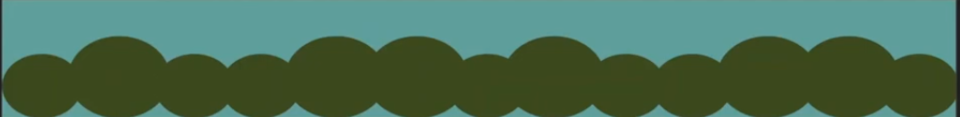
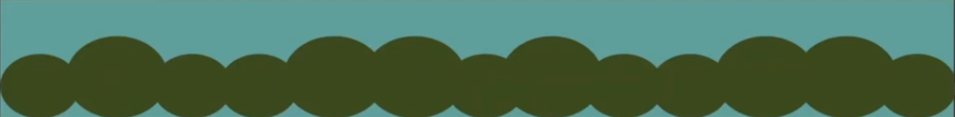
at

diff --git a/src/sass/_partials/_header-animado.sass b/src/sass/_partials/_header-animado.sass
@@ -1,5 +1,17 @@
 @use "../_variables" as var
 @use "sass:color"
+
+@mixin anima($imagem, $tempo, $direcao : 'reverse')
+    background-image: url(/imagens/cenario_#{$imagem}.png)
+    animation: anima_cenario #{$tempo} linear infinite #{$direcao}
+    background-size: auto 100%
+    background-repeat: no-repeat
+
+@keyframes anima_cenario 
+    from
+        transform: translateX(-31%) translateY(0) 
+    to 
+        transform: translateX(0%)  translateY(0)
     
 .header-animado 
     $h: 300px
@@ -50,46 +62,23 @@
                 top: 0
                 left: 0
                 right: 0
-            
 
-            @keyframes anima_cenario 
-                from
-                    transform: translateX(-31%) translateY(0) 
-                to 
-                    transform: translateX(0%)  translateY(0)
-                    
-                    
-            .nuvens 
-                background-image: url(/imagens/cenario_nuvens.png)
-                animation: anima_cenario 30s linear infinite reverse
-                background-size: auto 100%
-                background-repeat: no-repeat
+            $anima_elements: ('nuvens'90s,'casas' 30s, 'rua' 30s, 'carrosCima'15s, 'carrosBaixo'15s )
 
-            .casas
-                background-image: url('/imagens/cenario_Casas.png')
-                animation: anima_cenario 30s linear infinite reverse
-                background-size: auto 100%
-                background-repeat: no-repeat
-            
-            .rua
-                background-image: url('/imagens/cenario_rua.png')
-                animation: anima_cenario 30s linear infinite reverse
-                background-size: auto 100%
-                background-repeat: no-repeat
+            $anima_elementss: 'nuvens' 90s,'casas' 30s , 'rua' 30s , 'carrosCima' 15s , 'carrosBaixo' 15s 'normal'
+
+            @each $el, $tempo, $dir in $anima_elementss
+                @if not $dir
+                    $dir: 'reverse'
+                .#{$el} 
+                    @include anima(#{$el}, $tempo, $dir)
 
             .carrosCima
-                background-image: url('/imagens/cenario_carrosCima.png')
-                animation: anima_cenario 10s linear infinite reverse
-                background-size: auto 100%
-                background-repeat: no-repeat
                 position: absolute
                 top: -10px
 
             .carrosBaixo
-                background-image: url('/imagens/cenario_carrosBaixo.png')
-                animation: anima_cenario 10s linear infinite 
-                background-size: auto 100%
-                background-repeat: no-repeat
+                //animation-direction: normal
                 position: absolute
                 top: -12px
 
